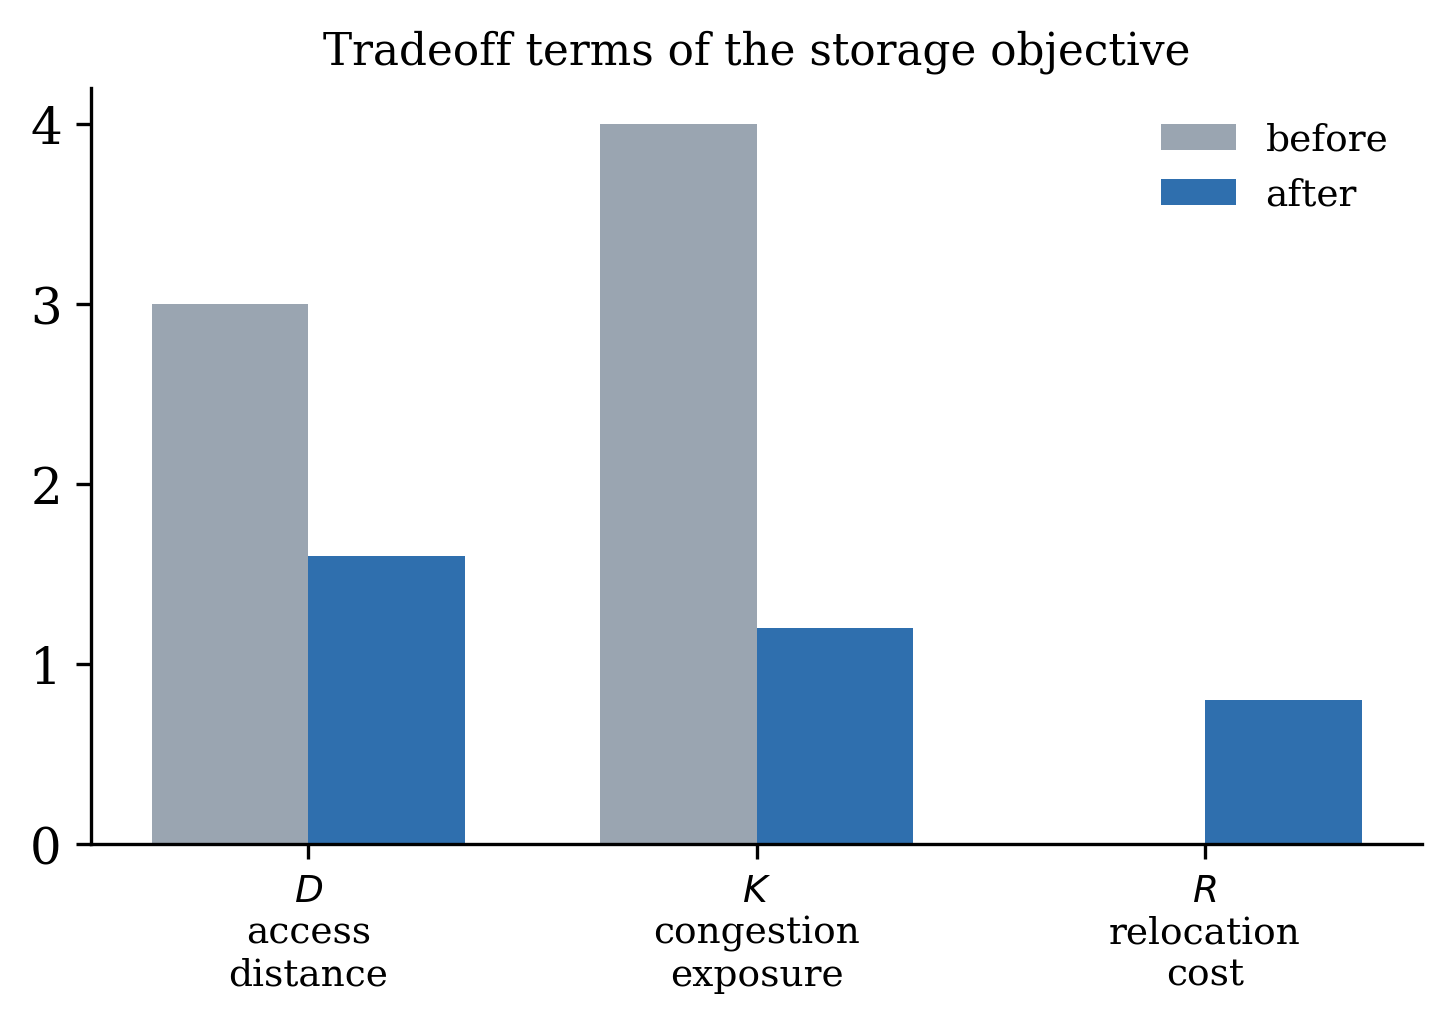
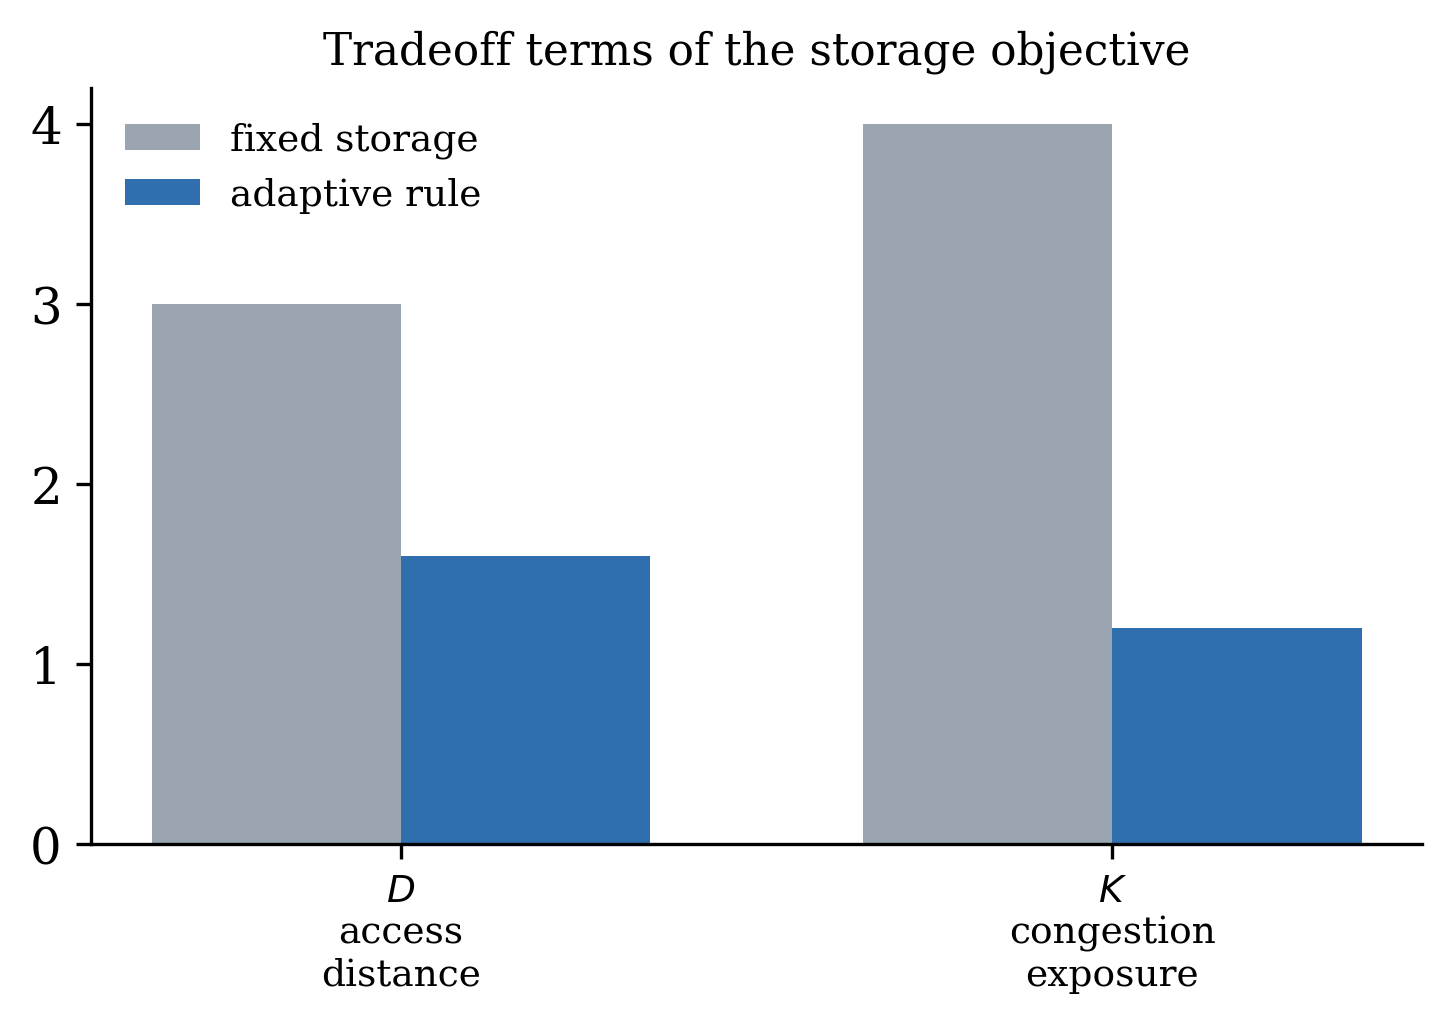
files

diff --git a/scripts/images/arrival_storage.py b/scripts/images/arrival_storage.py
@@ -1,0 +1,105 @@
+"""
+The arrival model ([A38], [A39]) in the tea/aisle picture of
+two_layer_feedback.py: new stock arrives at the delivery vertex, and the
+storage rule only decides which shelf it goes to. Fixed storage sends new
+tea to its home shelf at the far end of the Right aisle. Adaptive storage
+(drawn as the demand rule) sends it to the nearest shelf with room, while
+the old tea stays where it is until it runs out. An order takes the nearest
+tea, so its walk is 3 edges under fixed storage and 1 under adaptive storage.
+Used as fig:storageexample in 2.Introduction.tex, replacing
+two_layer_feedback.png there.
+"""
+import matplotlib.pyplot as plt
+from matplotlib.lines import Line2D
+
+from base import OUT, C
+
+LEFT = [(-1.0, 0.0), (-1.0, 1.2), (-1.0, 2.4)]
+RIGHT = [(1.0, 0.0), (1.0, 1.2), (1.0, 2.4)]
+DELIVERY = (0.0, -1.0)
+HOME = RIGHT[2]   # tea's home shelf, where the old tea sits in both panels
+NEAR = LEFT[0]    # the nearest shelf with room
+PUTAWAY = "#2f6fae"
+
+
+def _route(target):
+    aisle = LEFT if target in LEFT else RIGHT
+    return [DELIVERY] + aisle[:aisle.index(target) + 1]
+
+
+def _line(ax, path, color, lw, dx=0.0, **kw):
+    xs = [p[0] + dx for p in path]
+    ax.plot(xs, [p[1] for p in path], color=color, lw=lw, solid_capstyle="round", **kw)
+    ax.annotate("", xy=(xs[-1], path[-1][1]), xytext=(xs[-2], path[-2][1]),
+                arrowprops=dict(arrowstyle="-|>", lw=lw, color=color,
+                                linestyle=kw.get("ls", "-")))
+
+
+def _panel(ax, new_tea):
+    ax.set_xlim(-2.4, 2.4); ax.set_ylim(-1.8, 3.7)
+    ax.set_aspect("equal"); ax.axis("off")
+
+    for aisle in (LEFT, RIGHT):
+        for p0, p1 in zip(aisle, aisle[1:]):
+            ax.plot([p0[0], p1[0]], [p0[1], p1[1]], color=C["edge"], lw=1.6, zorder=1)
+        ax.plot([DELIVERY[0], aisle[0][0]], [DELIVERY[1], aisle[0][1]], color=C["edge"], lw=1.6, zorder=1)
+
+    # The order's walk to the nearest tea runs along the aisle. The put-away
+    # of the new tea is drawn as an arc beside it, so the two never overlap.
+    walk = _route(new_tea)
+    _line(ax, walk, C["agent"], 2.8, zorder=2, alpha=0.85)
+    ax.annotate("", xy=new_tea, xytext=DELIVERY, zorder=2,
+                arrowprops=dict(arrowstyle="-|>", lw=2.2, color=PUTAWAY, ls=(0, (3, 2)),
+                                shrinkA=14, shrinkB=16,
+                                connectionstyle=f"arc3,rad={0.6 if new_tea in RIGHT else -0.35}"))
+    edges = len(walk) - 1
+    mid = walk[len(walk) // 2]
+    ax.annotate(f"order walks\n{edges} edge{'s' if edges > 1 else ''}", mid,
+                textcoords="offset points", xytext=(-58 if new_tea in RIGHT else 58, -6),
+                ha="center", fontsize=10.5, color=C["agent"])
+
+    for aisle in (LEFT, RIGHT):
+        for p in aisle:
+            if p not in (HOME, new_tea):
+                ax.scatter(*p, s=280, c="white", edgecolors=C["node"], zorder=3)
+    ax.scatter(*DELIVERY, s=380, marker="s", c=C["del_f"], edgecolors=C["del_e"], zorder=3)
+    ax.annotate("delivery and\nreceiving", DELIVERY, textcoords="offset points", xytext=(0, -30),
+                ha="center", fontsize=10.5, color=C["del_e"])
+    ax.text(-1.0, 2.75, "Left aisle", ha="center", fontsize=11, color=C["text"])
+    ax.text(1.0, 2.75, "Right aisle", ha="center", fontsize=11, color=C["text"])
+
+    if new_tea == HOME:
+        ax.scatter(*HOME, s=420, marker="D", c=C["store_f"], edgecolors=C["store_e"], zorder=4)
+        ax.annotate("old + new tea", HOME, textcoords="offset points", xytext=(-16, 0),
+                    ha="right", va="center", fontsize=10.5, color=C["store_e"])
+    else:
+        ax.scatter(*HOME, s=420, marker="D", c="white", edgecolors="white", zorder=4)
+        ax.scatter(*HOME, s=420, marker="D", c=C["store_f"], edgecolors=C["store_e"],
+                   alpha=0.4, zorder=5)
+        ax.annotate("old tea,\nruns out", HOME, textcoords="offset points", xytext=(16, 0),
+                    ha="left", va="center", fontsize=10.5, color=C["store_e"], alpha=0.6)
+        ax.scatter(*new_tea, s=420, marker="D", c=C["store_f"], edgecolors=C["store_e"], zorder=4)
+        ax.annotate("new tea", new_tea, textcoords="offset points", xytext=(-16, 0),
+                    ha="right", va="center", fontsize=10.5, color=C["store_e"])
+
+
+def arrival_storage():
+    fig, axes = plt.subplots(1, 2, figsize=(9.5, 6.0))
+    _panel(axes[0], new_tea=HOME)
+    axes[0].set_title("(a) fixed storage: new tea goes\nto its home shelf", fontsize=11, pad=12)
+    _panel(axes[1], new_tea=NEAR)
+    axes[1].set_title("(b) adaptive storage: new tea goes\nto the nearest shelf with room", fontsize=11, pad=12)
+    handles = [
+        Line2D([], [], color=PUTAWAY, lw=2.2, ls=(0, (3, 2)), label="put-away of new stock"),
+        Line2D([], [], color=C["agent"], lw=3.0, alpha=0.85, label="order's walk to the nearest tea"),
+        Line2D([], [], marker="D", ls="", mfc=C["store_f"], mec=C["store_e"], ms=10, label="tea"),
+        Line2D([], [], marker="s", ls="", mfc=C["del_f"], mec=C["del_e"], ms=10, label="delivery"),
+    ]
+    fig.legend(handles=handles, loc="lower center", ncol=4, frameon=False,
+               fontsize=10, bbox_to_anchor=(0.5, 0.0))
+    fig.tight_layout(rect=[0, 0.06, 1, 0.90])
+    fig.savefig(f"{OUT}/arrival_storage.png"); plt.close(fig)
+
+
+if __name__ == "__main__":
+    arrival_storage()

diff --git a/scripts/images/storage_update_example.py b/scripts/images/storage_update_example.py
@@ -1,9 +1,10 @@
 """
 thesis-guide-images.md Section 6 ("Storage Updates: Slow Feedback Loop"):
-the D/K/R tradeoff terms the storage rule balances when deciding whether to
-relocate a SKU. The before/after tea-relocation intuition itself is covered
-separately by two_layer_feedback.py, so this figure is just the tradeoff,
-not another warehouse map.
+the D/K tradeoff terms the storage rule balances when deciding where arriving
+stock goes. The before/after tea picture itself is arrival_storage.py
+(fig:storageexample), so this figure is just the tradeoff, not another
+warehouse map. Under the arrival model ([A38]) nothing stored moves, so the
+relocation term R is gone.
 """
 import matplotlib.pyplot as plt
 
@@ -13,13 +14,13 @@ from base import OUT, C
 def storage_update_example():
     fig, ax = plt.subplots(figsize=(5.0, 3.6))
 
-    terms = ["$D$\naccess\ndistance", "$K$\ncongestion\nexposure", "$R$\nrelocation\ncost"]
-    before = [3.0, 4.0, 0.0]
-    after = [1.6, 1.2, 0.8]
+    terms = ["$D$\naccess\ndistance", "$K$\ncongestion\nexposure"]
+    before = [3.0, 4.0]
+    after = [1.6, 1.2]
     xs = range(len(terms))
     w = 0.35
-    ax.bar([x - w / 2 for x in xs], before, width=w, color=C["edge"], label="before")
-    ax.bar([x + w / 2 for x in xs], after, width=w, color=C["store_e"], label="after")
+    ax.bar([x - w / 2 for x in xs], before, width=w, color=C["edge"], label="fixed storage")
+    ax.bar([x + w / 2 for x in xs], after, width=w, color=C["store_e"], label="adaptive rule")
     ax.set_xticks(list(xs)); ax.set_xticklabels(terms, fontsize=9)
     ax.spines[["top", "right"]].set_visible(False)
     ax.legend(frameon=False, fontsize=9)

diff --git a/scripts/images/figure.py b/scripts/images/figure.py
@@ -50,6 +50,7 @@ from two_layer_feedback import two_layer_feedback
 from scoring_run import scoring_run
 from decision_problem_grid import decision_problem_grid
 from timeline import timeline
+from arrival_storage import arrival_storage
 
 if __name__ == "__main__":
     instance(); instance_simple(); observation(); loop()
@@ -62,5 +63,5 @@ if __name__ == "__main__":
     graph_basics(); actions_example(); storage_matrix()
     storage_update_example(); controllers_example(); posg_schematic()
     two_layer_feedback(); scoring_run(); decision_problem_grid()
-    timeline()
+    timeline(); arrival_storage()
     print("wrote figures to", os.path.abspath(OUT))

diff --git a/temp/GAPS.md b/temp/GAPS.md
@@ -1208,8 +1208,13 @@ wrong under [A32] are marked.
   (2022) define it. Adopted by the author on 2026-10-18
   (`thesis-progress/desicion/arrival_storage_plan.md`).
 - **Open.** The values of epsilon, x_min and Delta (`tab:storageparams`, TBD).
-  Figures `fig:storageexample` and `fig:dkr` still show a relocation and an R
-  bar (sources in `thesis-progress/scripts/images/`). Replaces the proposals
+  `fig:dkr` was redrawn on 2026-10-18 with D and K only, the bars labelled
+  fixed storage and adaptive rule (`storage_update_example.py`).
+  `fig:storageexample` was redrawn on 2026-10-18 as `arrival_storage.png`
+  (`arrival_storage.py`): fixed storage sends arriving tea to its far home
+  shelf, an adaptive rule to the nearest shelf with room, the old tea stays,
+  and an order walks 3 edges against 1. The sentences before the figure and
+  before `fig:dkr` were reworded to match. Replaces the proposals
   `[A38]` to `[A40]` of `stock_template_2026-10-17.md`, which were never
   applied.
 - **Code.** PR G to J of `arrival_storage_plan.md`, uncommitted, acceptance
@@ -1255,9 +1260,8 @@ wrong under [A32] are marked.
 
 ## Still open
 
-- [ ] **Figures for [A38].** Redraw `fig:storageexample` (tea arriving, not
-      moved) and `fig:dkr` (D and K only, no R) from
-      `thesis-progress/scripts/images/`, then copy them into `thesis/Images/`.
+- [x] **Figures for [A38].** Done 2026-10-18. `fig:storageexample` is
+      `arrival_storage.png`, `fig:dkr` shows D and K only.
 - [ ] **Values for [A38].** epsilon (probe value 1), x_min (8 in the
       configs), Delta (100), the receiving vertices, and beta under the
       arrival model (1 in `configs/medium_arrival`).

diff --git a/desicion/arrival_storage_plan.md b/desicion/arrival_storage_plan.md
@@ -89,8 +89,9 @@ Alternatives considered, each set aside in one line:
 **Applied 2026-10-18, uncommitted in `thesis/`, as `[A38]` (storage at arrival), `[A39]` (pickup
 rule, waiting orders) and `[A40]` (put-away distance), with `GAPS.md` entries.** The text below
 was the proposal. The applied wording differs in detail. `eq:relocation` became `eq:putaway`, and
-the new equations are `eq:arrivals` and `eq:pickuprule`. Still open: the two figures and the
-values of `tab:storageparams`.
+the new equations are `eq:arrivals` and `eq:pickuprule`. The two figures were redrawn on
+2026-10-18 (`fig:storageexample` as `arrival_storage.png`, `fig:dkr` with D and K only). Still
+open: the values of `tab:storageparams`.
 
 Tags are given when applied, after those reserved by `stock_template_2026-10-17.md` and
 `research_goals_2026-10-18.md`. Each gets a `GAPS.md` entry. Symbols to check against
